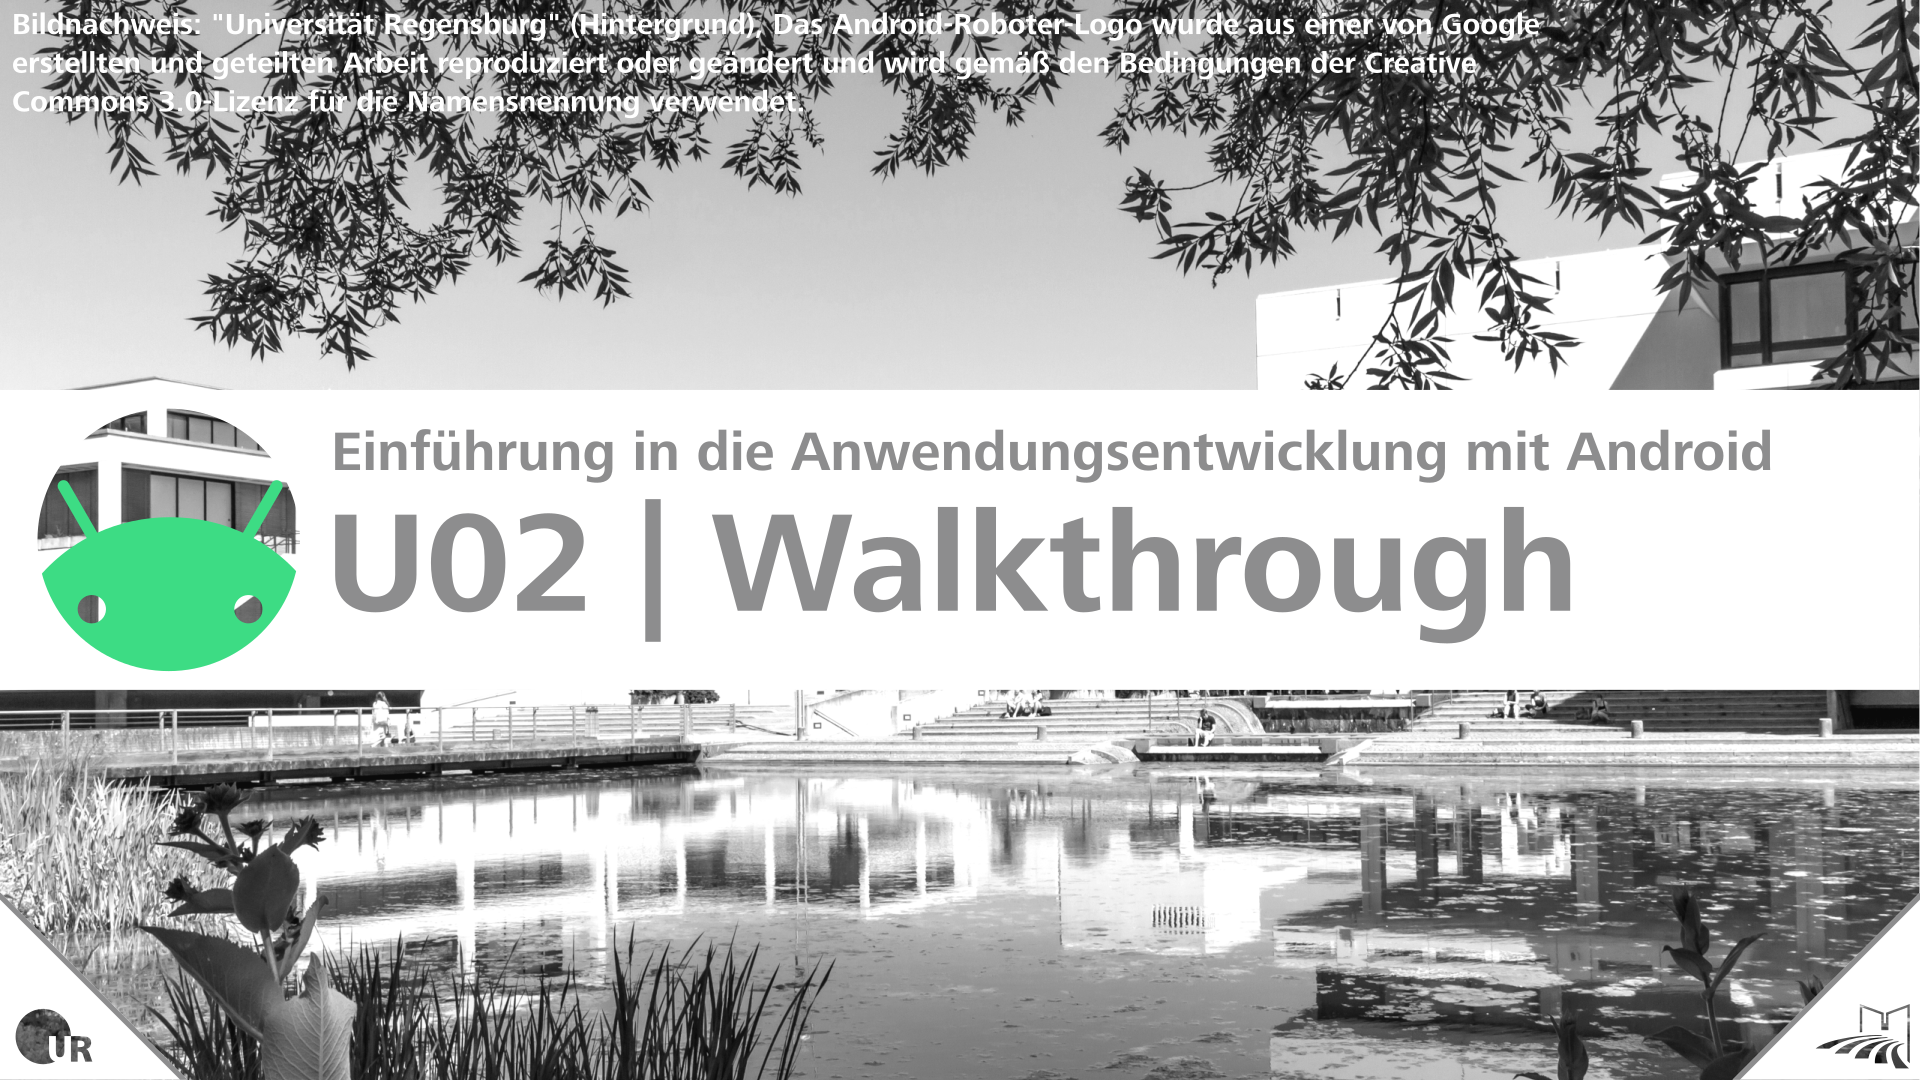
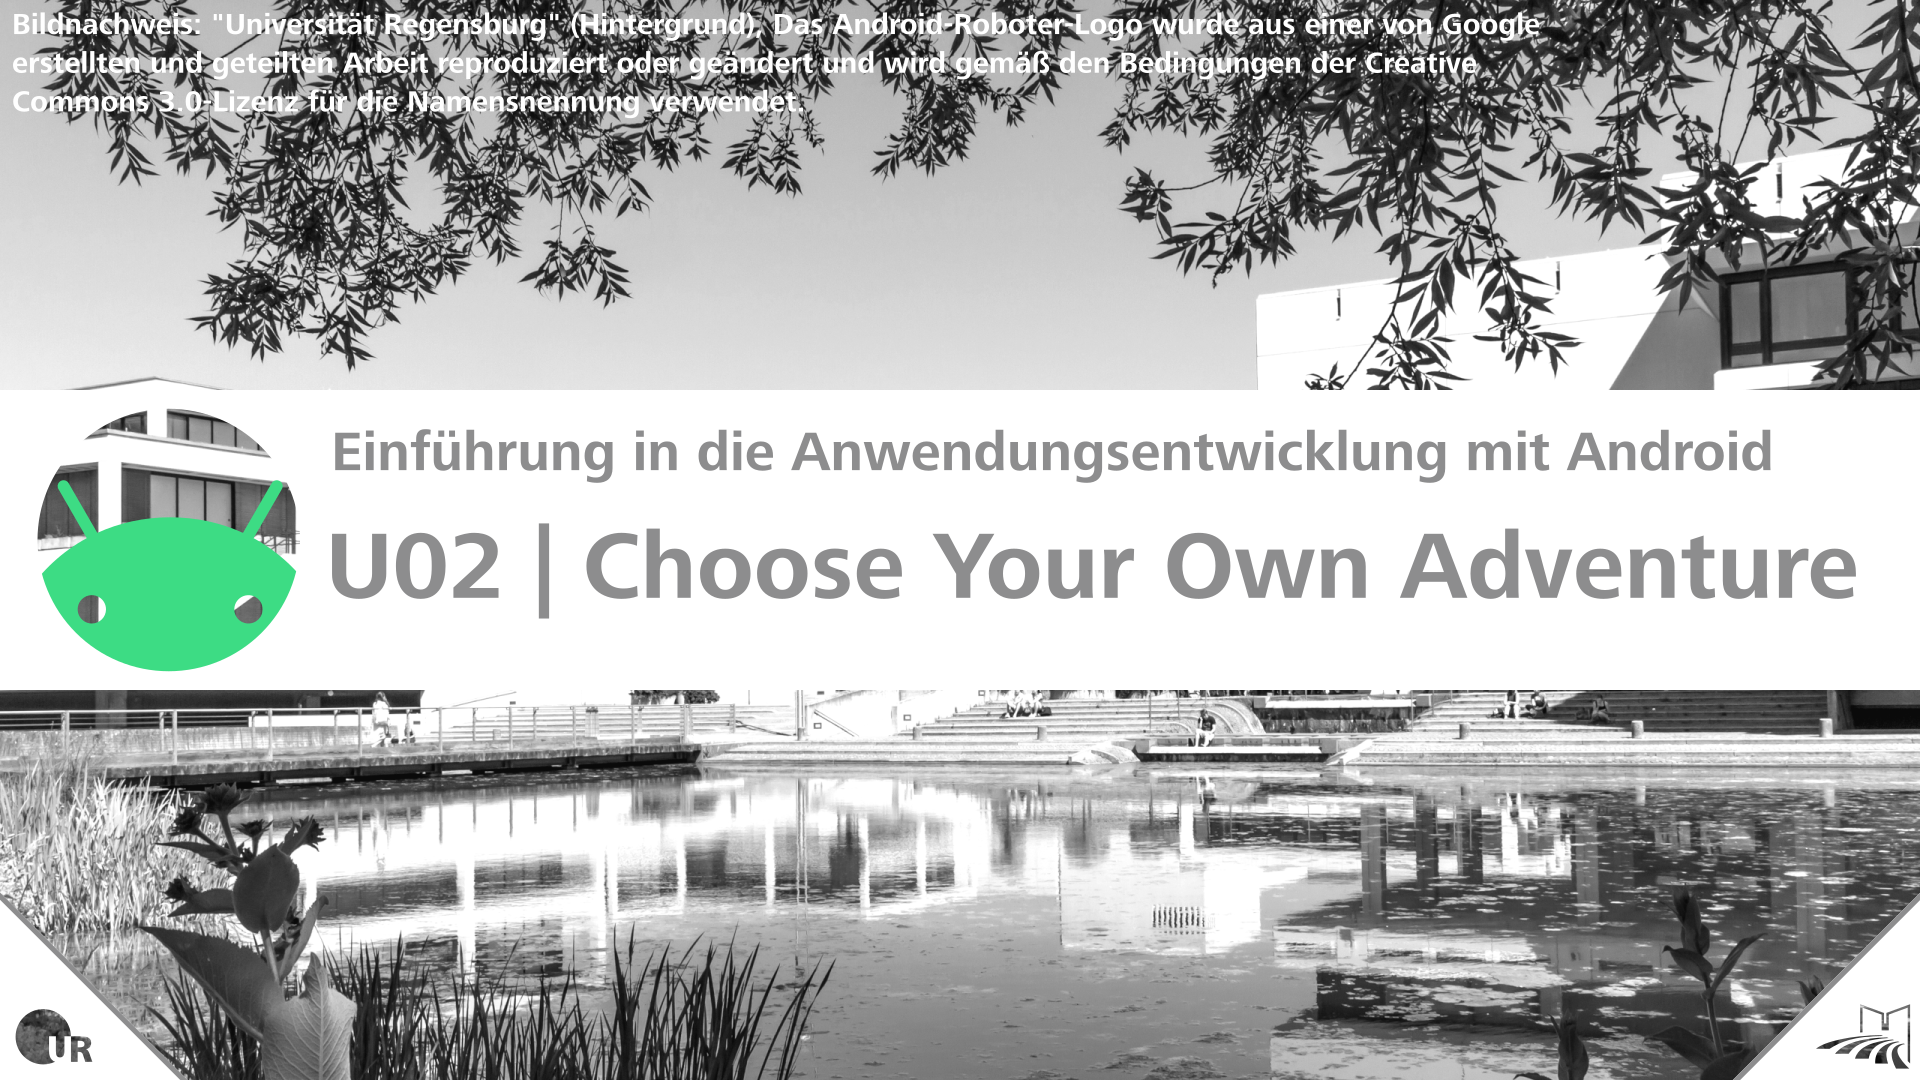
Pfade und Bezeichner in Lösung aktualisiert

diff --git a/app/src/main/java/de/ur/mi/android/chooseyourownadventure/BaseActivity.java b/app/src/main/java/de/ur/mi/android/chooseyourownadventure/BaseActivity.java
@@ -1,4 +1,4 @@
-package de.ur.mi.android.walkthrough;
+package de.ur.mi.android.chooseyourownadventure;
 
 import android.app.Activity;
 import android.content.Intent;
@@ -7,8 +7,6 @@ import android.text.method.ScrollingMovementMethod;
 import android.view.View;
 import android.widget.Button;
 import android.widget.TextView;
-
-import de.ur.mi.android.exercises.walkthrough.R;
 
 public class BaseActivity extends Activity implements View.OnClickListener {
 

diff --git a/app/src/main/java/de/ur/mi/android/chooseyourownadventure/scenes/GoodEnding.java b/app/src/main/java/de/ur/mi/android/chooseyourownadventure/scenes/GoodEnding.java
@@ -1,8 +1,9 @@
-package de.ur.mi.android.walkthrough;
+package de.ur.mi.android.chooseyourownadventure.scenes;
 
 import android.os.Bundle;
 
-import de.ur.mi.android.exercises.walkthrough.R;
+import de.ur.mi.android.chooseyourownadventure.BaseActivity;
+import de.ur.mi.android.chooseyourownadventure.R;
 
 public class GoodEnding extends BaseActivity {
 

diff --git a/app/src/main/java/de/ur/mi/android/chooseyourownadventure/scenes/BadEnding.java b/app/src/main/java/de/ur/mi/android/chooseyourownadventure/scenes/BadEnding.java
@@ -1,8 +1,9 @@
-package de.ur.mi.android.walkthrough;
+package de.ur.mi.android.chooseyourownadventure.scenes;
 
 import android.os.Bundle;
 
-import de.ur.mi.android.exercises.walkthrough.R;
+import de.ur.mi.android.chooseyourownadventure.BaseActivity;
+import de.ur.mi.android.chooseyourownadventure.R;
 
 public class BadEnding extends BaseActivity {
 

diff --git a/app/src/main/java/de/ur/mi/android/chooseyourownadventure/scenes/Stream.java b/app/src/main/java/de/ur/mi/android/chooseyourownadventure/scenes/Stream.java
@@ -1,8 +1,9 @@
-package de.ur.mi.android.walkthrough;
+package de.ur.mi.android.chooseyourownadventure.scenes;
 
 import android.os.Bundle;
 
-import de.ur.mi.android.exercises.walkthrough.R;
+import de.ur.mi.android.chooseyourownadventure.BaseActivity;
+import de.ur.mi.android.chooseyourownadventure.R;
 
 public class Stream extends BaseActivity {
 

diff --git a/app/src/main/java/de/ur/mi/android/chooseyourownadventure/scenes/Start.java b/app/src/main/java/de/ur/mi/android/chooseyourownadventure/scenes/Start.java
@@ -1,8 +1,9 @@
-package de.ur.mi.android.walkthrough;
+package de.ur.mi.android.chooseyourownadventure.scenes;
 
 import android.os.Bundle;
 
-import de.ur.mi.android.exercises.walkthrough.R;
+import de.ur.mi.android.chooseyourownadventure.BaseActivity;
+import de.ur.mi.android.chooseyourownadventure.R;
 
 public class Start extends BaseActivity {
 

diff --git a/Readme.md b/Readme.md
@@ -1,61 +1,95 @@
-# 02 | Walkthrough
+# 02 | Choose Your Own Adventure: Der Live-Stream
 
-![Cover für die zweite Übungsaufgabe](./docs/cover.png)
+In dieser Aufgabe machen Sie sich mit den wichtigsten Konzepten von *Activities* und *Intents* vertraut. Sie planen und implementieren ein einfaches Layout für das *User Interface* Ihrer Anwendung, entwickeln mehrere *Activities* die dieses Layout verwenden und Nutzen *Events* und *Intents* um NutzerInnen den Wechsel zwischen diesen *Activities* zu erlauben. Screenshots zu einer möglichen Lösung finden Sie am Ende dieser Anleitung. **Vergessen Sie nicht, den Code möglichst häufig und regelmäßig auf Ihrem Smartphone oder einem *Virtual Device* zu testen um so möglichst früh Fehler zu finden und beheben zu können.**
 
-## Downloads
+## Aufgabenstellung
 
-- [Download des Starterpakets](https://github.com/Android-Regensburg/U02-Walkthrough/archive/master.zip)
-- [Download des Lösungsvorschlag](https://github.com/Android-Regensburg/U02-Walkthrough/archive/solution.zip)
+Implementieren Sie ein interaktive Geschichte, die an das Konzept der [Gamebooks](https://en.wikipedia.org/wiki/Gamebook) angelehnt ist. Aufgeteilt auf mehrere *Seiten*, werden den SpielerInnen Abschnitte einer zusammenhängenden Geschichte präsentiert. In jedem Abschnitt können die SpielerInnen aus zwei möglichen Optionen für die Fortsetzung der Geschichte wählen und damit die Handlung beeinflussen. In diesem Beispiel erzählen wir die Geschichte des Live-Streams zu diesem Kurs und die Konsequenzen, die das Zuschauen haben kann ;)
 
-## Aufgabe
+### Spielablauf
 
-Erstellen Sie eine einfache App, um das Konzept der Activities und Intents zu üben und den Zusammenhang zwischen Activities und Layouts zu vertiefen.
-Ihre App soll aus drei Acitvities bestehen, die jeweils einen Teil des *Monkey Island*-Walkthroughs (Texte am Schluss des Dokuments) anzeigen. Mit den Buttons Vor und Zurück soll zwischen den Teilen gewechselt werden können.
+Der Spielablauf kann anhand dieser Grafik nachvollzogen werden. Die entsprechenden Texte finden Sie am Ende dieser Aufgabenbeschreibung. 
 
-## Hinweise
+![Szenen-Graph der Geschichte](./docs/scene-graph.png "Mögliche Wege durch die Geschichte")
 
-* Um die Gestaltung des Layouts einfacher zu machen, nutzen sie ein `LinearLayout`.
-* Beachten Sie, dass für das `LinearLayout` zusätzliche Attribute vergeben werden müssen. Beispielsweise das Attribut `orientation`, mit dem die Richtung angepasst werden kann, in der die UI-Elemente angeordnet werden.
-* Geben sie den UI-Elementen in ihrem Layout eine ID, damit  Sie sie in den Activities referenzieren können.
+**Jede *Szene* besteht aus einem Text und zwei möglichen Optionen für das weitere Vorgehen. Jede Szene wird durch eine *Activity* repräsentiert. Alle *Activities* nutzen das gleiche Layout, in dem `TextView`-Elemente für das Anzeigen von Überschrift und aktuellem *Kapitel* und  `Button`-Elemente für die Auswahl der beiden möglichen Optionen verwendet werden.**  
 
 ## Vorgehen
-1. Erstellen sie ein neues Android Studio Projekt mit einer `Empty Acitivity`.
-2. Tragen Sie in der `strings.xml` drei neue Strings ein für die Texte, die später in den Activities angezeigt werden sollen. Geben Sie den Strings geeignete Namen. Im Anhang dieses Dokuments finden Sie die Texte für Ihre App.
-3. Fügen Sie nun noch zwei weitere Strings ein, die dazu dienen werden, die Buttons zu beschriften.
-4. Verändern Sie das vorgegebene Layout in der `activity_main.xml`. Überlegen Sie sich, welche UI-Elemente Sie benötigen und fügen Sie diese dem Layout hinzu. Wie die Elemente angeordnet werden sollen, entnehmen Sie den Screenshots im Anhang (Abbildung 1).
-5. Wechseln Sie nun in die Activity, um sie wie folgt anzupassen:
-   1. Erstellen Sie Variablen für die verwendeten Layout-Elemente. Diese sollen dem kleinstmöglichen Sichtbarkeitsbereich unterliegen.
-   2. Greifen Sie in der `onCreate()`-Methode auf das UI-Element `TextView` zu. 
-   3. Holen Sie sich nun den Text für das `TextView` aus der `strings.xml` und fügen Sie ihn dem `TextView` hinzu.
-   4. Probieren Sie, von Zeit zu Zeit, ihre App laufen zu lassen. So können Sie leicht überprüfen, ob alles so funktioniert, wie Sie es möchten.
-   5. Den Text für die Buttons, können Sie nach dem zuvor erklärten Prinzip ebenfalls zuweisen.
-   6. Da Sie momentan die erste Activity erstellen, sollte der *Zurück* Button noch deaktiviert (ausgegraut) sein. Dazu können Sie die Methode `setEnabled(boolean)` des Buttonobjekts verwenden.
-   7. Die Buttons werden jetzt zwar angezeigt, haben jedoch keine Funktion. Um ihnen eine Funktion zu geben, verwenden Sie die Methode `setOnClickListener()`,  dem Sie ein `OnClickListener`-Objekt als Parameter übergeben. Dieses `OnClickListener`-Objekt erzeugen Sie direkt an der Stelle des Parameters. Bei der Erzeugung eines Objekts der Klasse `OnClickListener`, muss die abstrakte Methode `onClick(View v)`  überschrieben werden. Um eine Activity zu beenden, rufen sie die Methode `finish()` der Activity auf und sie wird geschlossen.
-6. Die anderen beiden Activities legen Sie durch Kopieren der Ersten an. Tragen sie diese auch in der `AndroidManifest.xml` ein. Denken Sie daran, die Texte anzupassen und die Buttons zu de-/aktivieren, sowie ggf. einen weiteren `OnClickListener` zu setzen.
-7. In den jeweiligen `onClick()`-Methoden sollen Intents dazu benutzt werden, um die nächste Activity zu starten, bzw. die aktuelle zu beenden.
 
-**Optional** Überlegen Sie sich, wie Sie die Code-Usability erhöhen können, indem sie geeignete Methoden erstellen.
+### Ein neues Projekt
 
-**Optional** Um Ihre App ein wenig ansprechender zu gestalten, können Sie auch noch einen Titel für jede Seite über den Text setzen (Sie benötigen hierfür ein weiteres `TextView`). Wie das aussehen könnte sehen Sie in den Screenshots im Anhang.
+Erstellen Sie in *Android Studio* ein neues Projekt. Wählen Sie als *Project Template* die Option *Empty Activity* und vergeben Sie sinnvolle Werte für den Namen und Paketnamen der Anwendung. 
 
-Probieren Sie zudem ein wenig mit den XML-Attributen herum, die sie im Layout etwa dem `TextView` vergeben können, um es etwas schöner darzustellen, wie es in den angehängten Screenshots (Abbildung 2) zu sehen ist.
+### Ressourcen
 
-## Walkthrough-Texte
-### Seite 1  
-When you are done talking with the lookout, Part I will begin. Go into the Scumm Bar and talk to the pirate by the window, Mancomb  Seepgood. Talk to him and say you want to be a pirate. Then ask where you can find the governor. He will tell you a story and suggest you ask Estevan to tell you the rest of the story. Go and talk to the pirate directly under the chandelier, Estevan. Ask him about the LeChuck guy. You can also talk to the pirate sitting beside the dog, but he’s not important. You can also talk to the dog for fun.
+Für die Anwendung benötigen wir eine Reihe von Texten (*Strings*), die wir an verschiedenen Stellen des *User Interface* verwenden werden. Dazu gehören die einzelnen *Kapitel*, die Beschriftungen für die Buttons zur Auswahl der möglichen Optionen und eine Überschrift, die in jeder *Activity* über dem aktuellen Text angezeigt wird. Grundsätzlich ist es eine gute Idee, Code und Inhalt (hier die Texte) in einer Anwendung bestmöglich zu trennen. In Android nutzen wir dazu Ressourcendateien, in denen wir in diesem Fall Textbausteine speichern um diese im Anschluss im Code unserer Anwendung referenzieren zu können. Inhaltliche Änderungen müssen dann nur noch in dieser XML-Datei vorgenommen werden - die Referenz im Code bleiben unberührt.
 
-### Seite 2
-Go to the right past the curtain and you will find the important-looking pirates. Talk to them and tell them you want to be a pirate. They will explain that you have to go through “The three trials” to become a pirate. They are mastering the sword, mastering the art of thievery, and the quest, which is finding the lost treasure of Melee Island. They request you return with proof that each time you have accomplished one of the trials. You can now ask them to tell you more about each of the trials or you can end the conversation. Try and open the door to the right. The cook will tell you to get lost. Wait until he leaves the kitchen and has walked out of the screen. Then enter the kitchen. Pick up the hunk of meat on the table and the pot from under the table. Use the hunk of meat with the pot o´ stew in the corner. Then pick it up again. It’s now stewed meat
+**Erstellen Sie in der Datei `res\values\strings.xml` Einträge für alle Texte. Verwenden Sie geeignete Bezeichner (Attribut `name`) mit denen die Texte später im Code referenziert werden können. Als Vorlage können Sie das XML-Element mit dem Namen `app_name` verwenden, das automatisch in der Datei angelegt wird.**
 
-### Seite 3
-Open the door to the small bridge. A seagull will land and start eating the fish. Go out to the end of the bridge, the plank will flap and scare the seagull away. Do this a few times and quickly pick up the fish. Wall back out of the kitchen and return to the street. When you leave the Scumm Bar and cutscene follows with Bob telling LeChuck that there is a problem on Melee Island with a new wannabe pirate. After the cutscene, walk to the left, back up to the lookout and past him to the right. Now you see a map of Melee Island with lights. They represent places you can go. Go to the one in the middle called “clearing”. You’ll see that it is a circus. Walk inside. You will see the two Fettucini brothers arguing. Wait until they are done, then say something to get their attention. They will immediately try to convince you to test the cannon for them. Agree to the deal, you will discover that they will pay you 478 pieces of eight. They will ask you if you have a helmet, say of course and show them the pot.
+### Layout
 
-## Quellen
-Große Teile dieser Anleitung wurden aus der Übungsaufgabe 2 des Sommersemesters 2013 von Thomas Wagner (Universität Regensburg) übernommen.  
-Der Walkthrough-Text kommt von: http://www.worldofmi.com/gamehelp/walk/monkey1.php
+In Ihrem Projekt finden Sie bereits eine automatisch erstellte Layout-Datei, die auch bereits in der ersten *Activity* (Methode `setContentView` in der `MainActivity`) verwendet wird. Sie können dieses Layout über die XML-Ansicht oder den graphischen Editor anpassen und die UI-Elemente ergänzen, die Sie zum Umsetzen der Anwendung benötigen: Ein `TextView` für die Überschrift, ein weiteres `TextView` für den Kapiteltext und die beiden `Buttons` zur Auswahl der möglichen Optionen.
 
-## Anhang
-### Screenshots
-![Screenshots der Walkthrough-App](./docs/screenshot-1.png "So sollte Ihre App in Etwa aussehen")  
-![Screenshots der Walkthrough-App mit optionaler Erweiterung](./docs/screenshot-2.png "So könnte ihre App optional erweitert werden")
+**Editieren Sie die Layout-Datei `res\layout\activity_main.xml`. Fügen Sie die notwendigen UI-Elemente hinzu und vergeben Sie passende *IDs*, mit denen die Elemente später im Code referenziert und manipuliert werden können.**
 
+### Die erste  Activity
+
+Jede mögliche Szene des Spiels wird durch eine *Activity* repräsentiert. Diese sind dabei sehr ähnlich aufgebaut. Alle *Activities* nutzen das gleiche Layout (`activity_main.xml`) und haben die gleiche Aufgabe:
+
+- Anzeigen des aktuellen Texts
+- Anbieten zweier Buttons zur Auswahl der möglichen Verläufe
+- Abfangen der Klicks auf diesen Buttons und Wechsel zur damit ausgewählten, nächsten *Activity*
+
+Wir implementieren die vier Szenen des Spiels (`Start`, `Stream`, `Happy Ending` und `Bad Ending`) als individuelle *Activities* um deren Aufbau und den Wechsel zwischen den *Activities* möglichst häufig zu trainieren. Wahrscheinlich wird Ihnen bei der Umsetzung der Aufgabe aber auffallen, dass es für den konkreten Anwendungsfall auch andere, bessere Alternativen zu diesem Vorgehen geben könnte.
+
+**Passen Sie die vorhandenen *Activity* an, um hier die erste Szene des Spiels darzustellen. Referenzieren Sie die verschiedenen Elemente des *User Interface* in entsprechenden Variablen. Setzten Sie den korrekten Text aus der Ressourcen-Datei ein. Fangen Sie die Klicks auf die Buttons ab, in dem Sie auf diesen `OnClickListener` registrieren. Nutzen Sie später die *Callback*-Methoden der *Listener*, um über *Intents* zur jeweils ausgewählten, nächsten Szene zu wechseln.**
+
+### Die anderen Activities
+
+Verwenden Sie angepasste *Actvitity* als Vorlage für die anderen Szenen, die Sie ebenfalls als einzelne *Activity* abbilden. Neue *Activities*  erstellen Sie, in dem Sie zusätzliche Java-Klassen erzeugen, die von der Superklasse `Activity` erben. Denken Sie daran, diese neuen *Activities* im *Manifest* der Anwendung einzutragen. Vergessen Sie dies, wird Ihre Anwendung abstürzen, sobald Sie versuchen zu diesen *Activities* zu wechseln.
+
+**Wenn alle Szenen erstellt wurden, können Sie die *Callback*-Methoden der *Listener*, die Sie auf den Buttons registriert haben, verwenden, um über *Intents* zur jeweils passenden nächsten *Activity* zu wechseln. Wählen die SpielerInnen in der ersten Szene z.B. die *Option A* aus, wechseln Sie per *Intent* zur Szene `Stream`.**
+
+## Erweiterungen
+
+Sobald die grundlegende Funktionalität der Anwendung implementiert ist, können Sie sich an die Verbesserung und Erweiterung machen. Hier finden Sie dazu ein paar Vorschläge:
+
+- Optimieren Sie Ihren Code (*Refactoring*). Überlegen Sie sich, ob Sie die gemeinsame Funktionalität der erstellten *Activities* in eine gemeinsame Superklasse verschieben können, von der die vier *Activities* erben.
+- Optimieren Sie das *User Interface* der Anwendung, in dem Sie Textgrößen und Abstände anpassen. Verwenden Sie dazu geeignete XML-Attribute der jeweiligen UI-Elemente. Eine Liste der Gestaltungsmöglichkeiten für z.B. das `TextView` finden Sie [hier](https://developer.android.com/reference/android/widget/TextView).
+- Seien Sie kreativ: Verändern Sie die Geschichte durch weitere Verzweigungen oder ersetzen Sie sie komplett durch Ihr eigenes Abenteuer.
+
+## Texte für die einzelnen Szenen
+
+### Start
+
+*Freitag. 9 Uhr. Viel zu früh. Das letzte Bier beim Zoom-Stammtisch hätte es gestern Abend eigentlich nicht mehr gebraucht. Während deine Kopf gemächlich seinen Dienst aufnimmt und aus den zwei Schränken vor deinen Augen endlich wieder einer wird, beginnt es in deinem Gehirn zu brodeln. Freitag. 9 Uhr. War da nicht was? Irgendwas mit Robotern und Telefonen? Plötzlich fällt es dir ein! Der Live-Stream zum Android-Kurs beginnt doch jeden Augenblick! Keine Zeit für langes Nachdenken, jetzt muss eine Entscheidung her. Was möchtest du tun?*
+
+*Option A: Schnell den Laptop holen. Stift und Papier. Ich bereit und will etwas lernen.*
+
+*Option B: Das Video kann ich mir auch noch später anschauen. Noch 5 Minuten die Augen schließen ...*
+
+### Stream 
+
+*Grade noch rechtzeitig schaffst du es, den Stream aufzurufen. Während du der monotonen Stimme des Dozenten lauscht, werden deine Augen wieder schwerer. So ganz kannst du dich immer noch nicht konzentrieren. Und überhaupt. Wer braucht schon Android. Und hier auf Twitch gib es bestimmt auch noch was spannenderes zu schauen. Zusammenreißen und aufpassen oder lieber chillen? Was möchtest du tun?*
+
+*Option A: Ich reiß mich zusammen. Vielleicht ist das ja doch wichtig und hilft mir irgendwann mal.*
+
+*Option B: Also zu den Let\'s Plays von Gronkh kann ich immer ganz gut einschlafen. Schnell den Kanal wechseln.*
+
+### Happy Ending
+
+*Den Stream schaust du dir komplett an. Und das Übungsblatt. Und den Foliensatz gleich auch noch mal. Heute bist du motiviert. Das einzige was dich stört ist, dass du immer noch nicht diese eine App gefunden hast, die du schon ewig suchst. Aber hey, du kennst dich mit Android aus! Hast immer aufgepasst im Kurs. Du setzt dich an den Rechner und beginnst zu programmieren.*
+
+*6 Monate später. Schon 2 Millionen Menschen haben deine App gekauft. Du schwimmst in Geld. Gut das du dich damals doch aus dem Bett gequält hast. Und gut das du den Live-Stream nie verpasst hast.*
+
+### Bad Ending
+
+*Glücklich schließt du die Augen und bist wenige Sekunden später eingeschlafen. Aber irgendwas stimmt nicht. Du wachst in einem dunklen Raum auf. Das einzige Licht strahlt dir aus einer Deckenlampe, direkt über dir, in die Augen. Ist das ein Traum? Wenn ja, dann wahrscheinlich ein Apltraum. Denn du hörst plötzlich hinter dir langsame, mechanische Schritte und ein schrilles Kichern. Das riesige, grüne Gesicht des Android-Maskottchen schiebt sich in dein Blickfeld. Die großen, regungslosen Augen starren dich an. Der Roboter kichert ohne den Mund zu bewegen.*
+
+*Das nächste Mal, denkst du dir, bin ich pünktlich zum Live-Stream*
+
+## Screenshots der Anwendung
+
+| | | |
+|-|-|-|
+|![Screenshots der Adventure App-App](./docs/screenshot-1.png){ height=10cm }|![Screenshots der Adventure App-App](./docs/screenshot-2.png){ height=10cm }|![Screenshots der Adventure App-App](./docs/screenshot-3.png){ height=10cm }|
